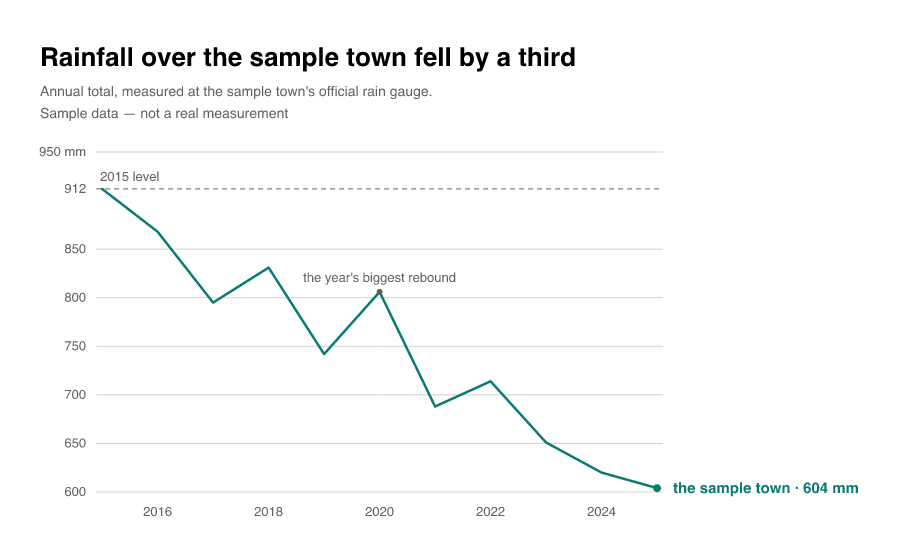
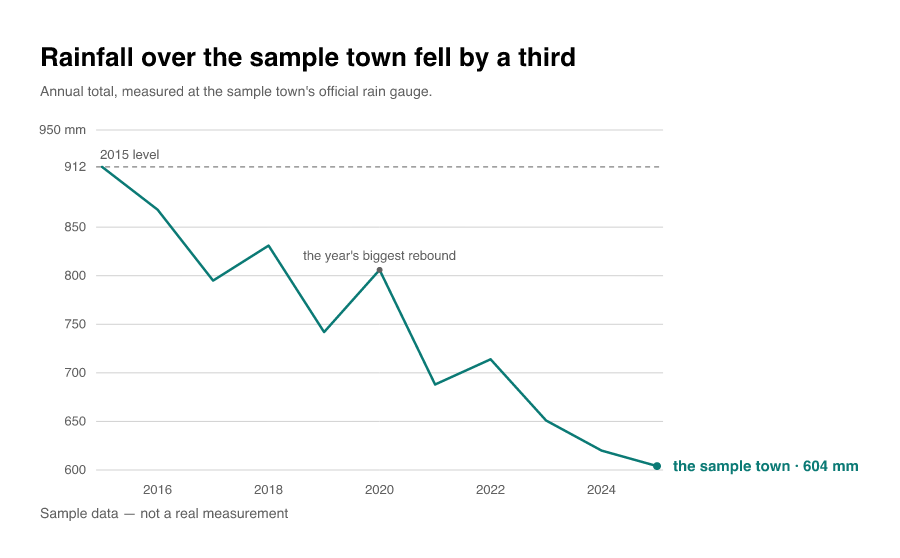
W2 §3.6/§3.7: the doctrine reversal is written down, and a walking guard holds it
Two reference files argued FOR the old placement and would otherwise have had
the repository contradicting its own render, with only a person to notice —
nothing scans markdown.

static-discipline.md's section "The source under the header, not in a footer"
is rewritten as "The source on the frame's bottom margin". It keeps what
survives (reading size, muted ink, never 9px, never the bottom-right corner,
carries the effective date), records the reversal, and names the cost it
accepts: a reader who screenshots only the top of a chart now gets no source.
What makes that acceptable is that a beat is delivered as ONE file, and a credit
in a constant position across every graphic is worth more than robustness
against a partial screenshot of one of them. It also records the three-edit
shape and the measured result (top edge +26px, bottom edge +22px, plot height
+4px, no horizontal geometry moved) and the collision the first arithmetic
caused.

information-architecture.md cited this exact override as the worked example of
its "when a genre-scoped file disagrees" mechanism, three times. The example is
gone — the DEFAULT won, because the genre-scoped file had been describing what
its component happened to draw rather than what the format needed. The section
is NOT deleted: the mechanism is still correct and still needed. It now records
that no genre-scoped file overrides any zone today and that the mechanism stands
[…]

diff --git a/twin/skills/splash-twin/test/credit-anchors-to-the-frame-bottom.test.ts b/twin/skills/splash-twin/test/credit-anchors-to-the-frame-bottom.test.ts
@@ -1,0 +1,143 @@
+/**
+ * WHAT THIS GUARD CATCHES, AND WHAT IT PROVABLY DOES NOT.
+ *
+ * The credit belongs at the BOTTOM of the visual (owner feedback B1.1). Measured on 2026-08-10,
+ * before this guard existed: **60 `const sourceBaseline =` / `const sourceTop =` definitions in 60
+ * distinct `.tsx` files, and not one of them anchored to `height - PAD`.** Every one derived the
+ * source's y from something ABOVE it — `titleBaseline`, `titleTop`, `subtitleTop`,
+ * `limitsBaseline`, `caveatBaseline`, `noteBaseline` — so the source hung under the header on every
+ * genre this project ships.
+ *
+ * Five of those 60 are the CRAFT SKILLS' OWN SEEDS, and a seed is what the next beat is copied
+ * from. This guard walks the skills and asserts that every source anchor there names the frame's
+ * own height with a subtraction, and names none of the header rungs. It DISCOVERS the components
+ * by walking `skills/**&#47;*.tsx`; a craft skill added tomorrow is covered the moment its component
+ * lands, with nobody remembering to wire it up.
+ *
+ * WHY IT STOPS AT `skills/` — the residue, stated rather than hidden.
+ *
+ * 55 of the 60 are beats under `proof/`, and as of 2026-08-10 only three of them have been
+ * migrated. Pointing this walk at `proof/` today would turn the suite red on ~52 beats that
+ * already shipped. **That is a migration, not a guard** — the same argument
+ * `seed-reads-a-recorded-palette.test.ts` makes for its own boundary, and the same reason
+ * `PLAN-2026-08-10.md` orders seeds before beats: fixing beats while leaving seeds regenerates the
+ * defect on the next beat written, whereas fixing seeds first means the backlog stops growing even
+ * while it has not yet shrunk.
+ *
+ * The scope is a DIRECTORY, never a list of exempted files. When the beats are migrated, `ROOTS`
+ * below gains `proof` and nothing else changes — no exemption list to prune, which is the
+ * `helper-parity.test.ts` failure mode this branch has already paid for twice.
+ *
+ * WHAT IT PROVABLY DOES NOT CATCH.
+ *
+ * 1. **That the glyph LANDS at the bottom.** It proves the EXPRESSION names the frame's bottom. A
+ *    component could compute `height - PAD` and then draw the `<text>` at `y={12}`. The seed
+ *    previews are re-rendered and opened for that; a rendered-SVG guard over the beats is worth
+ *    building when the beats are migrated (the spec calls it Guard C) and would cover only the 17
+ *    beats that ship an SVG beside their PNG.
+ * 2. **A component that draws the source at a literal `y` with no named const.** Nothing here can
+ *    see it, because there is no definition to read.
+ * 3. **The 52 un-migrated beats**, per the boundary above.
+ */
+import { describe, it, expect } from "bun:test";
+import { existsSync, readdirSync, readFileSync } from "node:fs";
+import { join, relative } from "node:path";
+
+const SKILLS = join(import.meta.dirname, "..", "..");
+const TWIN = join(SKILLS, "..");
+
+/** The populations this guard covers. A directory, never a file list — see the header. */
+const ROOTS = ["skills"];
+
+/** The header rungs a source anchor may never be derived from: naming any of them means the credit
+ *  hangs under the header, which is the defect. */
+const HEADER_RUNGS = [
+  "titleBaseline",
+  "titleTop",
+  "subtitleTop",
+  "subtitleBaseline",
+  "limitsBaseline",
+  "caveatBaseline",
+  "caveatTop",
+  "noteBaseline",
+];
+
+function* tsxFiles(dir: string): Generator<string> {
+  if (!existsSync(dir)) return;
+  for (const entry of readdirSync(dir, { withFileTypes: true })) {
+    if (entry.name === "node_modules" || entry.name === ".git") continue;
+    const path = join(dir, entry.name);
+    if (entry.isDirectory()) yield* tsxFiles(path);
+    else if (entry.name.endsWith(".tsx")) yield path;
+  }
+}
+
+/** Every `const sourceBaseline = …;` / `const sourceTop = …;`, with its right-hand side read to
+ *  the terminating semicolon so a multi-line expression is judged whole. */
+function sourceAnchors(src: string): { name: string; expression: string }[] {
+  const found: { name: string; expression: string }[] = [];
+  const re = /const\s+(sourceBaseline|sourceTop|sourceBottom)\s*=/g;
+  let m: RegExpExecArray | null;
+  while ((m = re.exec(src))) {
+    const end = src.indexOf(";", m.index);
+    if (end < 0) continue;
+    found.push({
+      name: m[1]!,
+      expression: src.slice(m.index + m[0].length, end).trim(),
+    });
+  }
+  return found;
+}
+
+const COMPONENTS = ROOTS.flatMap((root) => [...tsxFiles(join(TWIN, root))])
+  .map((path) => ({ path, label: relative(TWIN, path) }))
+  .filter(({ path }) => sourceAnchors(readFileSync(path, "utf8")).length > 0)
+  .sort((a, b) => a.label.localeCompare(b.label));
+
+describe("the credit is anchored to the frame's bottom, discovered rather than listed", () => {
+  it("should find every craft-skill component that positions a source line", () => {
+    // If the walk breaks, every assertion below goes vacuously green. Measured 2026-08-10: five
+    // components across three craft skills carry a source anchor.
+    expect(COMPONENTS.length).toBeGreaterThanOrEqual(5);
+    const labels = COMPONENTS.map((c) => c.label);
+    for (const expected of [
+      "skills/twin-chart-beat/assets/ChartSeed.tsx",
+      "skills/twin-chart-video/assets/EmissionsVideo.tsx",
+      "skills/twin-chart-web/assets/ChartWebSeed.tsx",
+      "skills/twin-map-beat/assets/Co2MapStill.tsx",
+      "skills/twin-map-beat/assets/Co2MapVideo.tsx",
+    ]) {
+      expect([expected, labels.includes(expected)]).toEqual([expected, true]);
+    }
+  });
+
+  for (const { path, label } of COMPONENTS) {
+    it(`${label} should anchor its source to the frame's bottom, not to a header rung`, () => {
+      const anchors = sourceAnchors(readFileSync(path, "utf8"));
+      const byName = new Map(anchors.map((a) => [a.name, a.expression]));
+      const offenders: string[] = [];
+      for (const { name, expression } of anchors) {
+        // A `sourceTop` derived from `sourceBottom` is the wrapped-block case: the LAST line lands
+        // on the margin and the first is walked back up by the leading. That is the rule, not a
+        // violation — but it is only the rule if `sourceBottom` ITSELF names the frame's bottom,
+        // so the chain is FOLLOWED rather than trusted. (Not following it was a real hole: a
+        // mutation putting `sourceBottom = titleTop + 30` back on the header rung passed the first
+        // draft of this guard silently, because nothing ever read that definition.)
+        const resolved =
+          /\bsourceBottom\b/.test(expression) && name !== "sourceBottom"
+            ? (byName.get("sourceBottom") ?? expression)
+            : expression;
+        const anchoredToBottom =
+          /\b(height|FRAME\.height)\b/.test(resolved) && resolved.includes("-");
+        if (!anchoredToBottom)
+          offenders.push(
+            `${name} does not resolve to the frame's height with a subtraction: ${resolved}`,
+          );
+        for (const rung of HEADER_RUNGS)
+          if (new RegExp(`\\b${rung}\\b`).test(resolved))
+            offenders.push(`${name} resolves to the header rung ${rung}`);
+      }
+      expect([label, offenders]).toEqual([label, []]);
+    });
+  }
+});

diff --git a/twin/skills/twin-chart-beat/references/static-discipline.md b/twin/skills/twin-chart-beat/references/static-discipline.md
@@ -136,19 +136,46 @@ type sizes) before that list becomes gridlines or gutter width. The reference's 
 on the axis, in its own dedicated label; it has simply stopped sharing the vertical band with a
 line that was never the one the reader needed there.
 
-## The source under the header, not in a footer
+## The source on the frame's bottom margin
 
-The source line sits directly beneath the title — and beneath the limits subtitle, when the beat
-carries one (`information-architecture.md`'s "Subtitle" zone) — at reading size, in muted ink. Not
-9px, not in the bottom-right corner, not cropped when somebody screenshots the top of the chart. It
-carries the effective date the journalist gave, because "as of" is part of the claim.
+**The source's last line sits on a baseline at `height - PAD`** — the frame's own bottom inner
+margin, the same inset the title hangs off at the top, left-aligned on the same `x` as the title.
+At reading size, in muted ink. Not 9px, not in the bottom-right corner. It carries the effective
+date the journalist gave, because "as of" is part of the claim. Where the source wraps to n lines,
+the FIRST line's baseline is `height - PAD - (n - 1) * SOURCE.lead`, so the block grows upward and
+the last line always lands on the margin.
 
-A beat whose header block has both a limits subtitle and a source line stacks them title, then
-subtitle, then source — the same top-to-bottom order `information-architecture.md` states for the
-general case, only anchored at the top of the frame instead of the bottom, per this file's own
-override of that zone. The two lines are not interchangeable: a subtitle answers "what can't this
-data support," a source answers "where did it come from and as of when" — a beat that spends its
-one subtitle slot on the source, the way an earlier draft of this file's own reference case did,
+**REVERSED 2026-08-10.** Until this date this section was titled *"The source under the header, not
+in a footer"* and required the opposite: the source directly beneath the title (and beneath the
+limits subtitle, where the beat carries one), on the argument that it is then *"not cropped when
+somebody screenshots the top of the chart"*.
+
+**The cost that reversal accepts, named:** a reader who screenshots only the top of a chart now
+gets no source. What makes that acceptable is what a beat actually is here — the graphic is
+delivered as ONE file (a PNG, an mp4, a self-contained HTML), not as a scrolling region somebody
+crops; and a credit in a **constant** position across every graphic this project ships is worth
+more than robustness against a partial screenshot of one of them. It is also where a reader looks
+for a credit, which the old rule was trading away.
+
+**What this is NOT, in the layout.** Moving the source is never just moving a `<text>`. Every
+component reserved its plot from the source's own baseline (`padding.top = sourceBaseline + …`), so
+the three edits are always: anchor the source to `height - PAD`; re-point `padding.top` at the
+**last drawn HEADER line** with the clearance the type already used; and grow `padding.bottom` by
+the source block's own height plus clear air, so the axis-label band beneath the plot ends above
+the source's ink. Measured on `ChartSeed`: the plot's top edge rises 26px, its bottom edge rises
+22px, its height gains 4px, and **no horizontal geometry moves at all** — the source is not in a
+gutter, so no measured gutter is re-measured. That is what keeps this change out of the
+label-collision class this project keeps finding by eye. (The first arithmetic tried reserved only
+`PAD + SOURCE.fontSize + 14` on the floor, and the rendered preview showed the source struck
+through the x-axis years. The tick drop is now a named constant that `padding.bottom` and the tick
+`<text y>` both read.)
+
+A beat whose header block has both a limits subtitle and a source line no longer stacks all three:
+the header is title, then subtitle; the source is at the bottom. That is now the same arrangement
+`information-architecture.md` states for the general case — this file no longer overrides that
+zone. The two lines are still not interchangeable: a subtitle answers "what can't this data
+support," a source answers "where did it come from and as of when" — a beat that spends its one
+subtitle slot on the source, the way an earlier draft of this file's own reference case did,
 answers neither question and drops the caveat the framing exchange already extracted.
 
 ## Direct end labels, not a legend

diff --git a/twin/skills/twin-doctrine/references/information-architecture.md b/twin/skills/twin-doctrine/references/information-architecture.md
@@ -61,12 +61,22 @@ for a single engine and a single format, such as `twin-chart-beat/references/sta
 for the static chart genre — is allowed to override a zone's default position when its own render
 actually places it differently, because it sits closer to the real pixels than this file does.
 
-**Where the two disagree, the genre-scoped file wins.** The source line is the live example: this
-file's default (item 5 above) fixes it at the bottom; `static-discipline.md` places it directly
-beneath the title for a static chart beat, matching what the seed component actually draws. For a
-static chart beat, follow `static-discipline.md` — directly beneath the title, not the bottom. A
-beat author who stops at this file's default without checking their engine's genre-scoped file has
-not yet read the authoritative answer for their own format.
+**Where the two disagree, the genre-scoped file wins.**
+
+**The worked example this section used to carry no longer exists, and that is worth recording
+rather than quietly replacing.** Until 2026-08-10 the live example was the source line: this file's
+default (item 5 above) fixes it at the bottom, and `static-discipline.md` placed it directly
+beneath the title for a static chart beat. The owner's feedback reversed the genre-scoped file
+(*"put the credits at the bottom of the visual"*), so `static-discipline.md` now says
+`height - PAD` too — and **the default is what won.** Not because the override mechanism failed:
+because the genre-scoped file had been describing what its component happened to draw rather than
+what the format needed, which is the one way an override can be wrong.
+
+**As of 2026-08-10 no genre-scoped file overrides any zone in this stack.** The mechanism below
+stands unexercised, and it is still correct and still needed — a file that sits closer to the real
+pixels than this one does should be able to say so. A beat author who stops at this file's default
+without checking their engine's genre-scoped file still has not read the authoritative answer for
+their own format; today the two simply agree.
 
 If a genre-scoped file is silent on a zone — true for most zones, most of the time — this file's
 default stands unchallenged. The override is narrow: it reaches only the zone the genre-scoped
